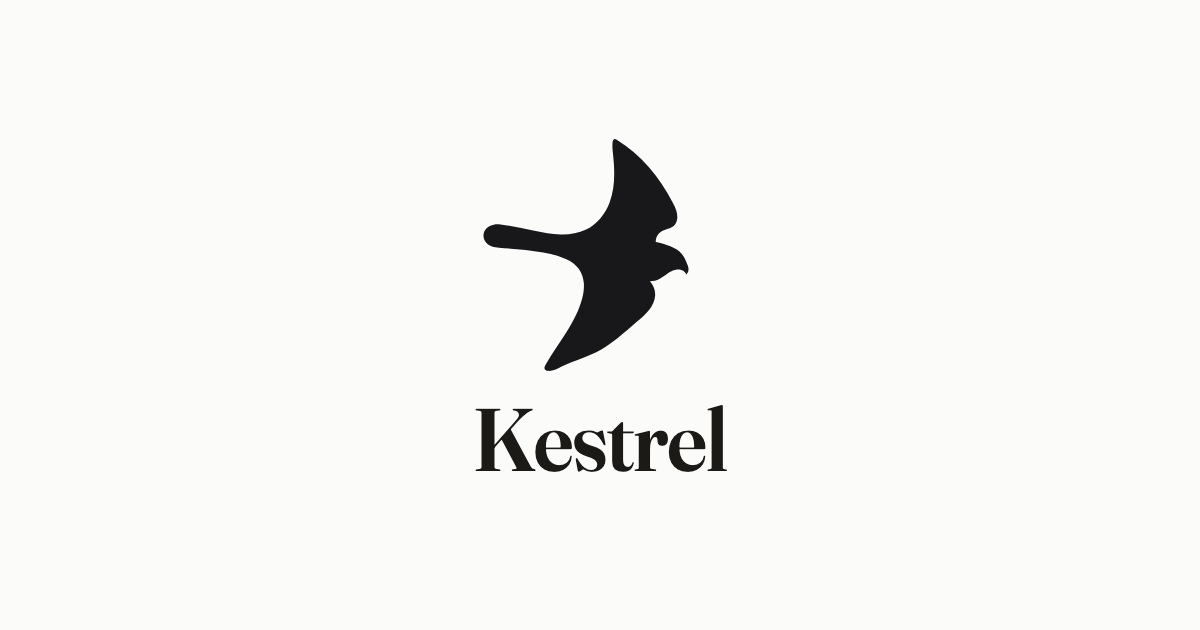
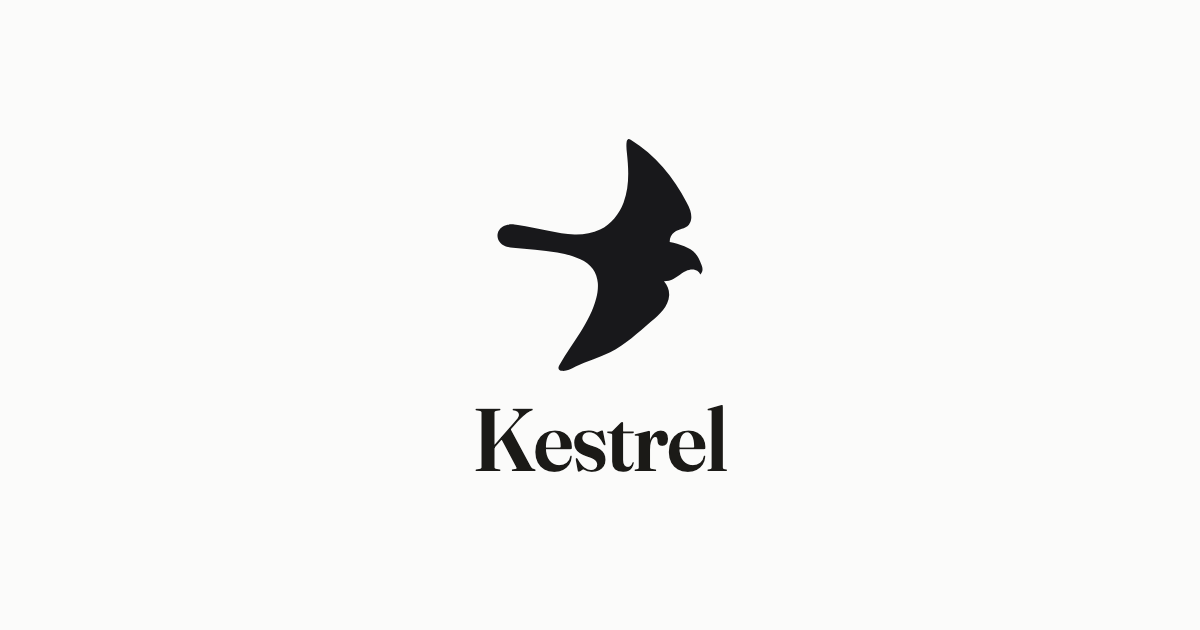
Social card: center the mark's box, without the optical nudge

Changed region(s): [[0.4008, 0.2111, 0.5858, 0.6032]]

diff --git a/scripts/og-card.html b/scripts/og-card.html
@@ -7,8 +7,7 @@
 <style>
   html, body { margin: 0; width: 1200px; height: 630px; background: #fbfbfa; }
   body { display: flex; flex-direction: column; align-items: center; justify-content: center; gap: 20px; color: #1b1a17; }
-  /* The bird's mass sits right of its box (tail left, body right); nudge it back over the word. */
-  svg { width: 240px; height: 240px; transform: translateX(-14px); }
+  svg { width: 240px; height: 240px; }
   span { font-family: Fraunces, serif; font-weight: 600; font-size: 88px; letter-spacing: -0.01em; line-height: 1; padding-bottom: 12px; }
 </style>
 </head>
